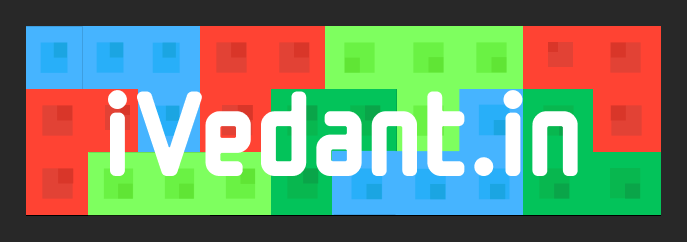
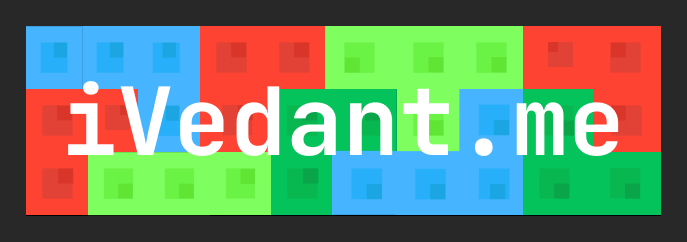
iVedant.me

Changed region(s): [[0.0917, 0.3182, 0.917, 0.7521]]

diff --git a/index.html b/index.html
@@ -8,17 +8,17 @@
     <link rel="stylesheet" href="https://cdn.jsdelivr.net/npm/@exampledev/new.css@1.1.2/new.min.css" />
     <link rel="stylesheet" href="styles.css" />
 
-    <meta property="og:title" content="iVedant.in" />
+    <meta property="og:title" content="iVedant.me" />
     <meta property="og:description" content="my silly webpage :D" />
-    <meta property="og:url" content="https://iVedant.in/" />
+    <meta property="og:url" content="https://iVedant.me/" />
     <meta property="og:type" content="website" />
 
-    <title>iVedant.in</title>
+    <title>iVedant.me</title>
 </head>
 
 <body>
     <header>
-        <h1><span style="color: #89b4fa">ツ</span> <mark>iVedant.in</mark></h1>
+        <h1><span style="color: #89b4fa">ツ</span> <mark>iVedant.me</mark></h1>
         <br />
         <a href="/">home</a> / <a href="/projects/">projects</a> / <a href="/blogs">blogs</a> / <a href="/donate">donate</a> / <a href="/more">more</a>
     </header>
@@ -67,7 +67,7 @@
 
     <footer style="text-align: center">
         <!-- 88 x 31s -->
-        <a href="https://iVedant.in"><img src="assets/webringplate.png" title="iVedant.in" style="width: 88px; height: 31px;" /></a>
+        <a href="https://iVedant.me"><img src="assets/webringplate.png" title="iVedant.me" style="width: 88px; height: 31px;" /></a>
         <a href="https://archlinux.org/"><img src="assets/archlinux.gif"
                 title="Arch Linux" /></a>
 

diff --git a/projects/index.html b/projects/index.html
@@ -7,14 +7,14 @@
     <link rel="stylesheet" href="https://cdn.jsdelivr.net/npm/@exampledev/new.css@1.1.2/new.min.css">
     <link rel="stylesheet" href="/styles.css">
 
-    <meta property="og:title" content="iVedant.in" />
+    <meta property="og:title" content="iVedant.me" />
     <meta property="og:description" content="my silly projects" />
-    <meta property="og:url" content="https://iVedant.in/" />
+    <meta property="og:url" content="https://iVedant.me/" />
     <meta property="og:type" content="website" />
 
 
 
-    <title>iVedant.in - projects</title>
+    <title>iVedant.me - projects</title>
 </head>
 <header>
     <h1><span style="color:#89b4fa">ツ</span> <mark>// projects</mark></h1><br>
